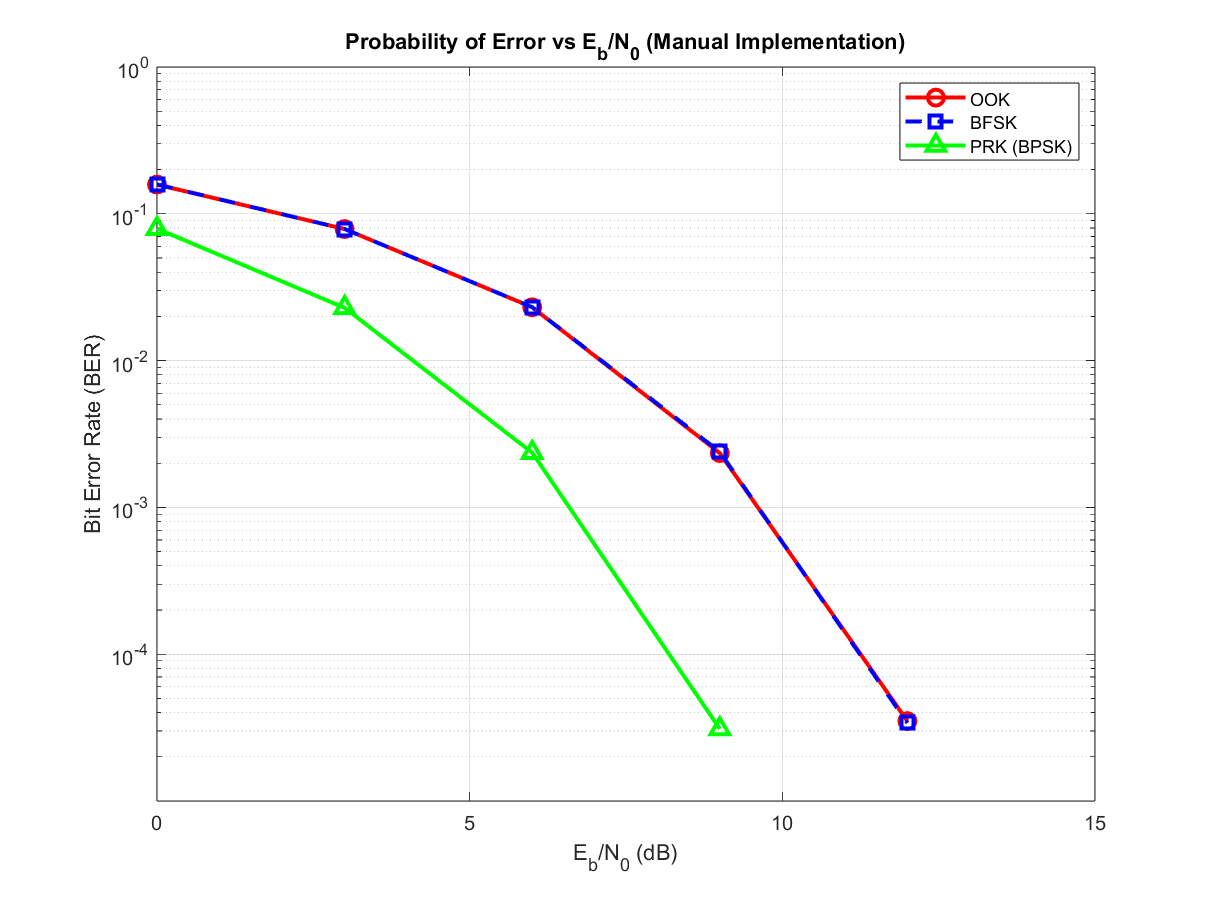
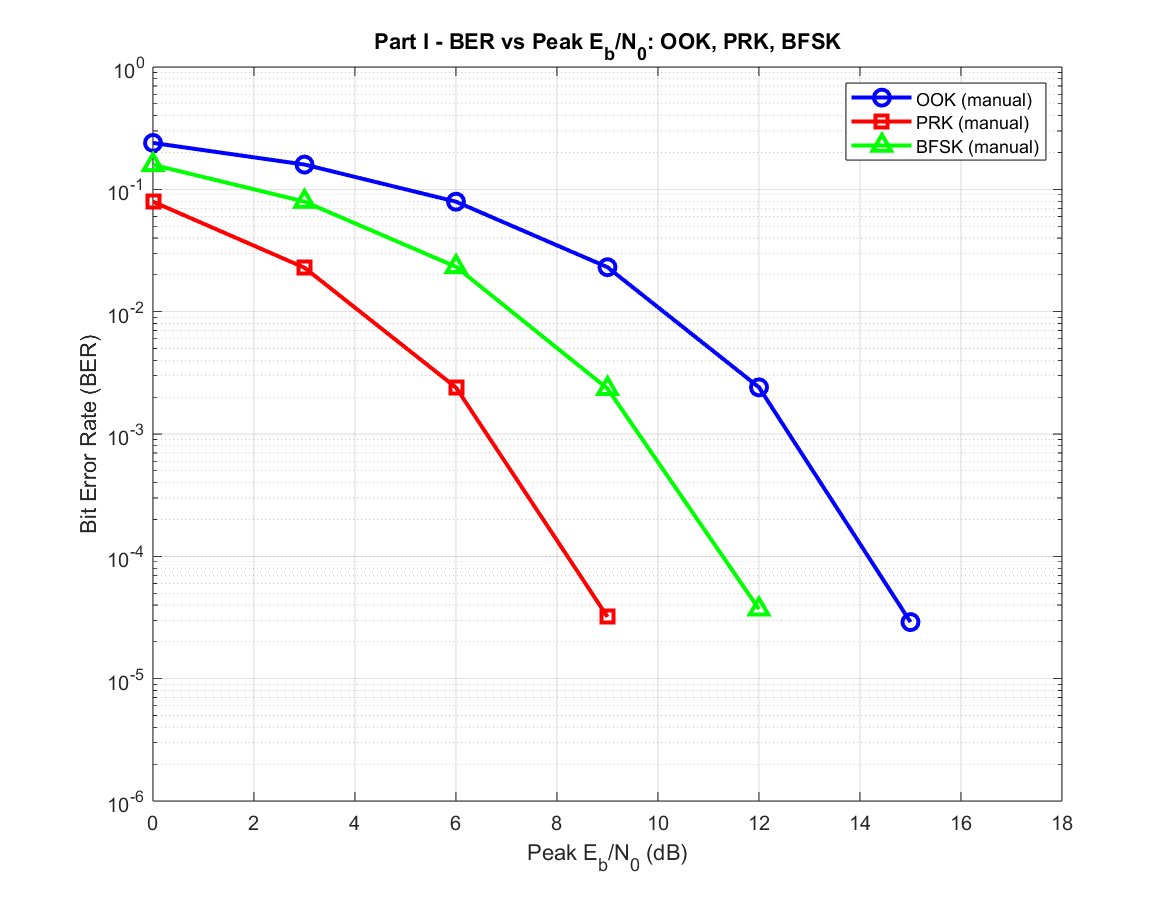
Final version of part 1

diff --git a/PT1_OOPK_PRK_BFSK.m b/PT1_OOPK_PRK_BFSK.m
@@ -1,109 +1,96 @@
 % Digital Communications Final Project
-% Part I: Performance of OOK, PRK, and BFSK
+% Part I: Performance of OOK, PRK, and BFSK (Peak Eb/N0)
 
 clear; clc; close all;
 
 %% 1. Simulation Parameters
-N_bits = 1e6; % 1 million bits
-EbN0_dB = 0:3:60; % Eb/N0 range 
+N_bits = 1e6; 
+EbN0_dB = 0:3:60; 
 
-% Initialize empty BER vectors
-BER_OOK = []; BER_PRK = []; BER_BFSK = [];
+BER_OOK_manual = []; BER_PRK_manual = []; BER_BFSK_manual = [];
 
 %% 2. Generate Random Binary Data
 data = randi([0 1], 1, N_bits);
 
-%% Manual Implementation Loop (Baseband Eb/N0)
+%% Manual Implementation Loop (Peak Eb/N0)
 for ebno = EbN0_dB
-    % Calculate linear Eb/N0 and Noise Spectral Density (N0)
-    % Assuming Eb = 1 for all schemes to normalize the curves
     EbN0_lin = 10^(ebno/10);
     N0 = 1 / EbN0_lin; 
-    noise_variance = N0 / 2; % Baseband noise is N0/2 per dimension
+    noise_variance = N0 / 2; % Baseband noise variance per dimension
     
-    %% --- PRK (BPSK) ---
-    % Distance = 2. 
-    s_prk = 2*data - 1; % -1 and +1
+    % --- PRK (BPSK) ---
+    s_prk = 2*data - 1; 
     noise_prk = sqrt(noise_variance) * randn(1, N_bits); 
-    r_prk = s_prk + noise_prk;
-    detected_prk = r_prk > 0;
-    BER_PRK = [BER_PRK, sum(data ~= detected_prk) / N_bits];
+    detected_prk = (s_prk + noise_prk) > 0;
+    BER_PRK_manual = [BER_PRK_manual, sum(data ~= detected_prk) / N_bits];
     
-    %% --- BFSK (Orthogonal) ---
-    % Distance = sqrt(2). 
+    % --- BFSK (Orthogonal) ---
     s_bfsk = zeros(1, N_bits);
-    s_bfsk(data == 0) = 1;
-    s_bfsk(data == 1) = 1i; 
-    % Complex noise (N0/2 on real, N0/2 on imag)
+    s_bfsk(data == 0) = 1; s_bfsk(data == 1) = 1i; 
     noise_bfsk = sqrt(noise_variance) * (randn(1, N_bits) + 1i*randn(1, N_bits));
-    r_bfsk = s_bfsk + noise_bfsk;
-    detected_bfsk = imag(r_bfsk) > real(r_bfsk);
-    BER_BFSK = [BER_BFSK, sum(data ~= detected_bfsk) / N_bits];
+    detected_bfsk = imag(s_bfsk + noise_bfsk) > real(s_bfsk + noise_bfsk);
+    BER_BFSK_manual = [BER_BFSK_manual, sum(data ~= detected_bfsk) / N_bits];
 
-    %% --- OOK (On-Off Keying) ---
-    % To match Eb/N0, if average Eb = 1, peak energy must be 2.
-    % So amplitude for '1' is sqrt(2). Distance = sqrt(2).
-    s_ook = sqrt(2) * data; 
+    % --- OOK (On-Off Keying) ---
+    s_ook = data; 
     noise_ook = sqrt(noise_variance) * randn(1, N_bits);
-    r_ook = s_ook + noise_ook;
-    detected_ook = r_ook > (sqrt(2)/2); % Threshold is halfway
-    BER_OOK = [BER_OOK, sum(data ~= detected_ook) / N_bits];
+    detected_ook = (s_ook + noise_ook) > 0.5;
+    BER_OOK_manual = [BER_OOK_manual, sum(data ~= detected_ook) / N_bits];
 end
 
-%% Plot Manual
-figure('Name', 'Manual Implementation Performance', 'Position', [100, 100, 800, 600]);
-semilogy(EbN0_dB, BER_OOK, 'r-o', 'LineWidth', 2, 'MarkerSize', 8); hold on;
-semilogy(EbN0_dB, BER_BFSK, 'b--s', 'LineWidth', 2, 'MarkerSize', 8); % Dashed to show overlap
-semilogy(EbN0_dB, BER_PRK, 'g-^', 'LineWidth', 2, 'MarkerSize', 8);
-grid on;
-title('Probability of Error vs E_b/N_0 (Manual Implementation)');
-xlabel('E_b/N_0 (dB)'); ylabel('Bit Error Rate (BER)');
-legend('OOK', 'BFSK', 'PRK (BPSK)');
-ylim([1e-5 1]);
+%% Theoretical Formulas 
+% PRK Coherent Theory: Q(sqrt(2*Eb/N0))
+BER_PRK_theory = qfunc(sqrt(2 * 10.^(EbN0_dB/10)));
 
-%% 9. Built-in MATLAB Functions Evaluation
-BER_OOK_builtin = zeros(1, length(EbN0_dB));
+% BFSK Coherent Theory: Q(sqrt(Eb/N0))
+BER_BFSK_theory = qfunc(sqrt(10.^(EbN0_dB/10)));
+
+% OOK Peak Theory: Q(sqrt(0.5 * Eb/N0))  <-- REPLACE WITH THIS LINE
+BER_OOK_theory = qfunc(sqrt(0.5 * 10.^(EbN0_dB/10)));
+
+
+%% Built-in Verification 
 BER_PRK_builtin = zeros(1, length(EbN0_dB));
-BER_BFSK_builtin = zeros(1, length(EbN0_dB));
-
-M = 2; freq_sep = 1; nsamp = 8; Fs = 8; 
 
 for i = 1:length(EbN0_dB)
-    ebno = EbN0_dB(i);
-    disp(['Processing Built-in Eb/N0: ', num2str(ebno), ' dB...']); 
-    
-    % --- PRK Built-in ---
+    disp(['Processing Built-in PRK Eb/N0: ', num2str(EbN0_dB(i)), ' dB...']); 
     s_prk_built = pskmod(data, 2); 
-    % awgn defaults to mapping SNR to Eb/N0 internally if we specify power
-    r_prk_built = awgn(s_prk_built, ebno, 'measured');
+    r_prk_built = awgn(s_prk_built, EbN0_dB(i), 'measured');
     det_prk_built = pskdemod(r_prk_built, 2);
     [~, BER_PRK_builtin(i)] = biterr(data, det_prk_built);
-    
-    % --- BFSK Built-in ---
-    s_bfsk_built = fskmod(data, M, freq_sep, nsamp, Fs); 
-    % Adjust for oversampling so Eb/N0 remains accurate
-    r_bfsk_built = awgn(s_bfsk_built, ebno - 10*log10(nsamp), 'measured');
-    det_bfsk_built = fskdemod(r_bfsk_built, M, freq_sep, nsamp, Fs);
-    [~, BER_BFSK_builtin(i)] = biterr(data, det_bfsk_built);
-
-    % --- OOK Built-in ---
-    % Standard PAM gives +1/-1. We shift to 0 and 1.
-    s_pam = pammod(data, 2);
-    s_ook_built = (s_pam + 1) / 2; 
-    % OOK average power is 3dB lower than peak. To plot against Eb/N0, 
-    % we must trick awgn by artificially adding 3dB to the noise target.
-    r_ook_built = awgn(s_ook_built, ebno + 3, 'measured');
-    det_ook_built = pamdemod(2 * r_ook_built - 1, 2);
-    [~, BER_OOK_builtin(i)] = biterr(data, det_ook_built);
 end
 
-%% Plot Built-in
-figure('Name', 'Built-in Functions Performance', 'Position', [150, 150, 800, 600]);
-semilogy(EbN0_dB, BER_OOK_builtin, 'r-o', 'LineWidth', 2, 'MarkerSize', 8); hold on;
-semilogy(EbN0_dB, BER_BFSK_builtin, 'b--s', 'LineWidth', 2, 'MarkerSize', 8);
-semilogy(EbN0_dB, BER_PRK_builtin, 'g-^', 'LineWidth', 2, 'MarkerSize', 8);
+%% Plot Figure 1: Manual Only
+figure('Name', 'Figure 1: Manual Simulation', 'Position', [100, 100, 800, 600]);
+semilogy(EbN0_dB, BER_OOK_manual, 'b-o', 'LineWidth', 2, 'MarkerSize', 8); hold on;
+semilogy(EbN0_dB, BER_PRK_manual, 'r-s', 'LineWidth', 2, 'MarkerSize', 8);
+semilogy(EbN0_dB, BER_BFSK_manual, 'g-^', 'LineWidth', 2, 'MarkerSize', 8);
 grid on;
-title('Probability of Error vs E_b/N_0 (MATLAB Built-in Verification)');
-xlabel('E_b/N_0 (dB)'); ylabel('Bit Error Rate (BER)');
-legend('OOK (Built-in)', 'BFSK (Built-in)', 'PRK (Built-in)');
-ylim([1e-5 1]);
+title('Part I - BER vs Peak E_b/N_0: OOK, PRK, BFSK');
+xlabel('Peak E_b/N_0 (dB)'); ylabel('Bit Error Rate (BER)');
+legend('OOK (manual)', 'PRK (manual)', 'BFSK (manual)');
+ylim([1e-6 1]);
+
+%% Plot Figure 2: Manual vs Theory vs Built-in (Combined)
+figure('Name', 'Figure 2: Verification', 'Position', [150, 150, 800, 600]);
+
+% 1. Manual Simulations (Solid lines)
+semilogy(EbN0_dB, BER_OOK_manual, 'b-', 'LineWidth', 2); hold on;
+semilogy(EbN0_dB, BER_PRK_manual, 'r-', 'LineWidth', 2);
+semilogy(EbN0_dB, BER_BFSK_manual, 'g-', 'LineWidth', 2);
+
+% 2. Theoretical Curves (Dashed lines)
+semilogy(EbN0_dB, BER_OOK_theory, 'b--', 'LineWidth', 2);
+semilogy(EbN0_dB, BER_PRK_theory, 'r--', 'LineWidth', 2);
+semilogy(EbN0_dB, BER_BFSK_theory, 'g--', 'LineWidth', 2);
+
+% 3. Built-in PRK Verification (Dotted line with markers)
+semilogy(EbN0_dB, BER_PRK_builtin, 'k:x', 'MarkerSize', 10, 'LineWidth', 2);
+
+grid on;
+title('Part I - Verification (Peak Energy Base)');
+xlabel('Peak E_b/N_0 (dB)'); ylabel('Bit Error Rate (BER)');
+legend('OOK (manual)', 'PRK (manual)', 'BFSK (manual)', ...
+       'OOK (theory)', 'PRK (theory)', 'BFSK (theory)', ...
+       'PRK (pskmod sim)');
+ylim([1e-6 1]);